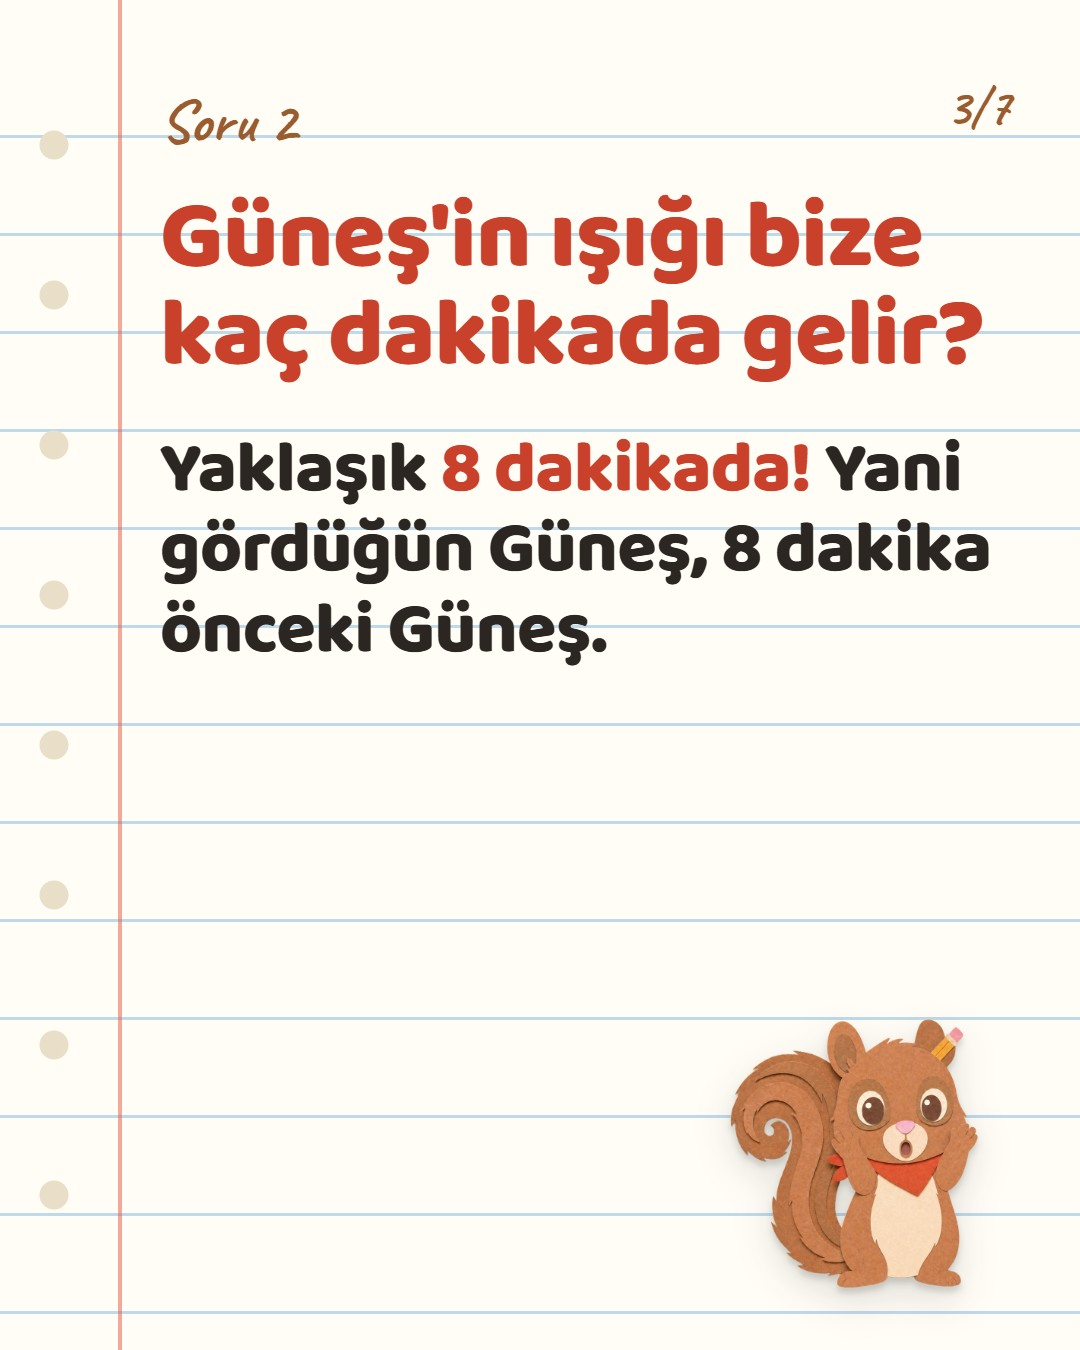
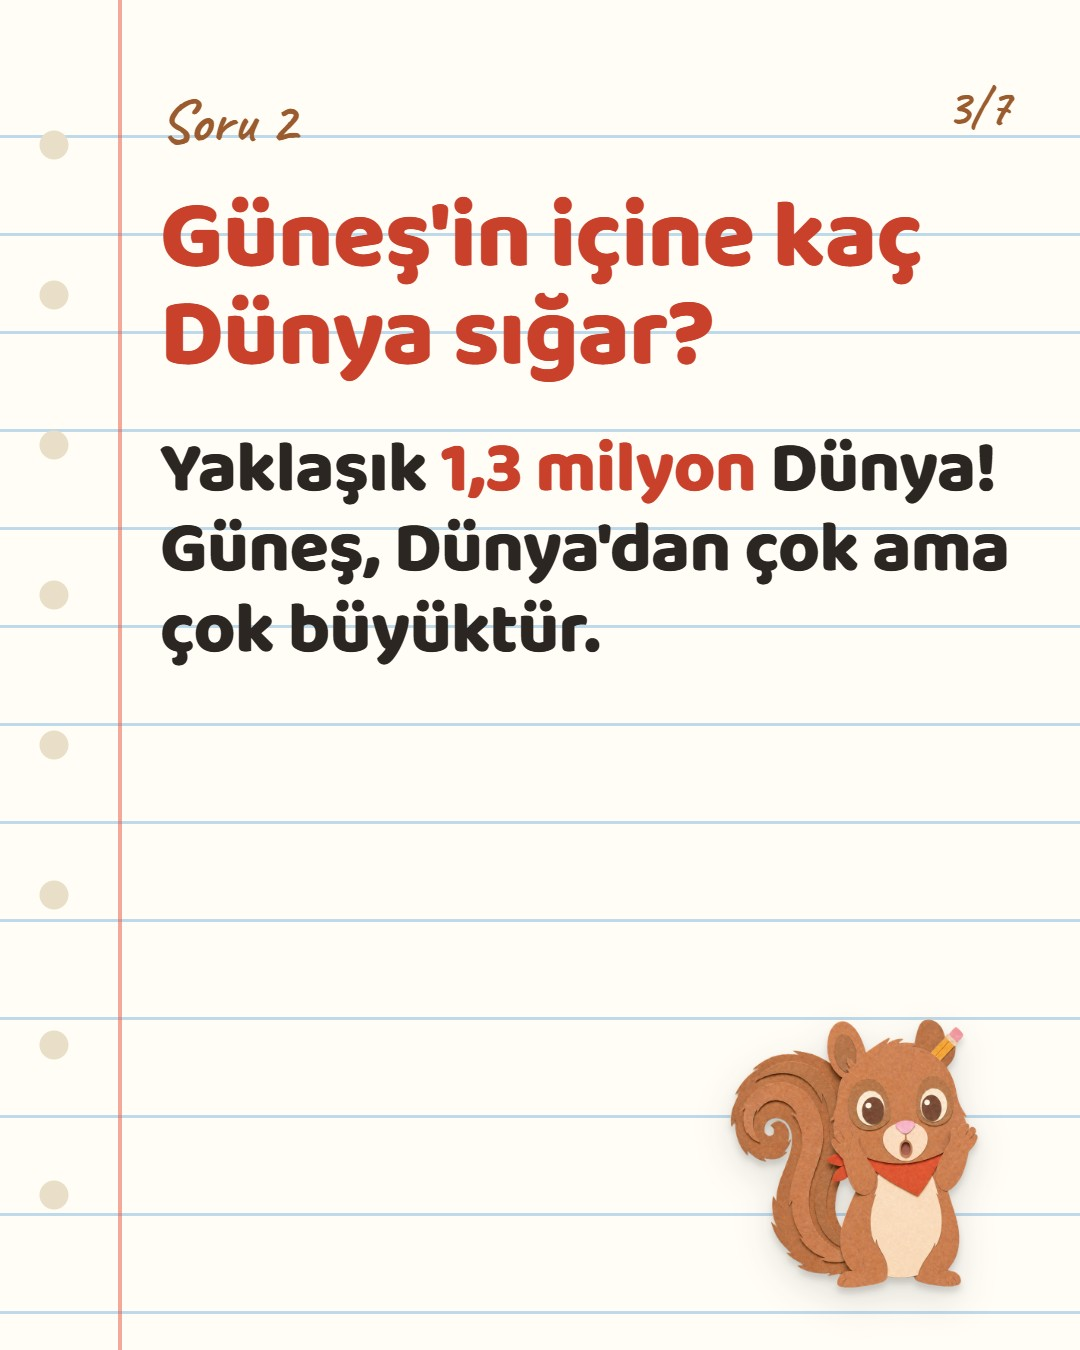
kurgu: 12:30 = önceki videonun tek pekiştirmesi (Merak Defteri 3-8), haberci tek görseller çıktı, uzay kartı değişti

Changed region(s): [[0.1528, 0.3111, 0.9472, 0.4978], [0.3972, 0.1244, 0.9167, 0.28], [0.1528, 0.2178, 0.3667, 0.28]]

diff --git a/otomasyon/pilot_plan.py b/otomasyon/pilot_plan.py
@@ -95,17 +95,34 @@ Videoyu izlediniz mi? Akşam çocuğunuzla konuşmak için kaydedin 📌 Kaydır
 "carousel-ebeveyn-rehberi-gokyuzu": (5, "Ebeveyn rehberi", """Çocuğunuz "Gökyüzü neden mavi?" diye sorarsa yaşına göre 1 cümlelik cevaplar 👇
 5–7 yaş, 8–10 yaş ve 11+ için ayrı ayrı. Kaydedin, eşinize gönderin ✈
 #merakliFindik #çocuklaraBilim #anneBaba #çocukEğitimi #neden"""),
+"carousel-merak-defteri-003": (6, "Merak Defteri · Sayfa 3", """Bulutlar neden beyaz? Merak Defteri'nin 3. sayfası 📓
+Videoyu izlediniz mi? Kaydırın; akşam çocuğunuzla konuşmak için kaydedin 📌
+Kaynak: NOAA SciJinks
+#merakliFindik #çocuklaraBilim #neden #bulutlar #anneBaba"""),
+"carousel-merak-defteri-004": (6, "Merak Defteri · Sayfa 4", """Bulutlar neden düşmüyor? Merak Defteri'nin 4. sayfası 📓
+Videoyu izlediniz mi? Kaydırın; akşam çocuğunuzla konuşmak için kaydedin 📌
+Kaynak: NOAA SciJinks · UCAR
+#merakliFindik #çocuklaraBilim #neden #bulutlar #anneBaba"""),
+"carousel-merak-defteri-006": (6, "Merak Defteri · Sayfa 6", """Şimşek neden çakar? Merak Defteri'nin 6. sayfası 📓
+Videoyu izlediniz mi? Kaydırın; akşam çocuğunuzla konuşmak için kaydedin 📌
+Kaynak: NOAA National Severe Storms Laboratory
+#merakliFindik #çocuklaraBilim #neden #şimşek #anneBaba"""),
+"carousel-merak-defteri-008": (7, "Merak Defteri · Sayfa 8", """Gökkuşağı nasıl oluşur? Merak Defteri'nin son sayfası 📓 Defter doldu: 8 soru, 8 cevap!
+Hangi sayfa en sevdiğiniz oldu? Yorumlara yazın 👇 Kaydedin 📌
+Kaynak: NOAA SciJinks · Met Office
+#merakliFindik #çocuklaraBilim #neden #gökkuşağı #anneBaba"""),
 "tek-sence-neden": (0, "Sence neden?", """Bulutlarda tonlarca su var… peki neden üstümüze düşmüyor? ☁
 A mı, B mi? Çocuğunuzun cevabını yorumlara yazın; doğru cevap akşamki videoda 🐿
 #merakliFindik #neden #bulutlar #çocuklaraBilim #anneBaba"""),
-"carousel-evde-dene-kavanozda-yagmur": (7, "Evde Dene", """Evde Dene: kavanozda yağmur 🫙 5 dakikalık mutfak deneyi!
+"carousel-evde-dene-kavanozda-yagmur": (7, "Merak Defteri · Sayfa 5", """Merak Defteri · sayfa 5: yağmurun nasıl oluştuğunu kavanozda görün 🫙 5 dakikalık mutfak deneyi!
 ⚠ Sıcak suyu bir yetişkin döksün, kaynar su kullanmayın. Denediyseniz ne gördüğünüzü yorumlara yazın 👇
 #merakliFindik #evdeDeney #çocuklaraBilim #yağmur #anneBaba"""),
 "tek-simsek-mi-gurultu-mu": (0, "Fırtınada hangisi önce?", """Fırtınada hangisi önce gelir: şimşek mi, gök gürültüsü mü? ⚡
 Çocuğunuzla tahmin edin, cevabınızı yorumlara yazın 👇 Cevap bu hafta Merak Defteri'nde!
 #merakliFindik #neden #şimşek #çocuklaraBilim #anneBaba"""),
-"carousel-uc-saniye-kurali": (5, "3 saniye kuralı", """Fırtına ne kadar uzakta? 3 saniye kuralıyla saniye sayarak bulun ⚡
+"carousel-uc-saniye-kurali": (5, "Merak Defteri · Sayfa 7", """Merak Defteri · sayfa 7: fırtına ne kadar uzakta? 3 saniye kuralıyla saniye sayarak bulun ⚡
 Unutmayın: fırtınada içeride kalın! Kaydedin 📌
+Kaynak: NOAA National Weather Service
 #merakliFindik #çocuklaraBilim #fırtına #neden #anneBaba"""),
 "tek-gokkusagi-gunes": (0, "Güneş nerede?", """Gökkuşağını görmek için güneş nerede olmalı: önümüzde mi, arkamızda mı? 🌈
 Tahmininizi yorumlara yazın; cevap akşamki sezon finalinde!
@@ -122,12 +139,12 @@ DAYS = [
  ("2026-10-08", None, [("12:30", "000"), ("19:30", "001")], [("13:00", "story-merhaba"), ("16:00", "story-001-a-soru"), ("19:40", "story-001-b-video"), ("21:30", "story-001-c-cevap")]),
  ("2026-10-09", "carousel-001", [("19:30", "002")], [("10:00", "story-002-a-soru"), ("19:40", "story-002-b-video"), ("21:30", "story-002-c-cevap")]),
  ("2026-10-10", "carousel-ebeveyn-rehberi-gokyuzu", [("19:30", "003")], [("10:00", "story-003-a-soru"), ("19:40", "story-003-b-video"), ("21:30", "story-003-c-cevap")]),
- ("2026-10-11", "tek-sence-neden", [("19:30", "004")], [("10:00", "story-004-a-soru"), ("19:40", "story-004-b-video"), ("21:30", "story-004-c-cevap")]),
- ("2026-10-12", "carousel-evde-dene-kavanozda-yagmur", [("19:30", "005")], [("10:00", "story-005-a-soru"), ("19:40", "story-005-b-video"), ("21:30", "story-005-c-cevap")]),
- ("2026-10-13", "tek-simsek-mi-gurultu-mu", [("19:30", "006")], [("10:00", "story-006-a-soru"), ("19:40", "story-006-b-video"), ("21:30", "story-006-c-cevap")]),
- ("2026-10-14", "carousel-uc-saniye-kurali", [("19:30", "007")], [("10:00", "story-007-a-soru"), ("19:40", "story-007-b-video"), ("21:30", "story-007-c-cevap")]),
- ("2026-10-15", "tek-gokkusagi-gunes", [("19:30", "008")], [("10:00", "story-008-a-soru"), ("19:40", "story-008-b-video"), ("21:30", "story-008-c-cevap")]),
- ("2026-10-16", "carousel-sezon1-ozet", [], [("13:00", "story-sezon2")]),
+ ("2026-10-11", "carousel-merak-defteri-003", [("19:30", "004")], [("10:00", "story-004-a-soru"), ("19:40", "story-004-b-video"), ("21:30", "story-004-c-cevap")]),
+ ("2026-10-12", "carousel-merak-defteri-004", [("19:30", "005")], [("10:00", "story-005-a-soru"), ("19:40", "story-005-b-video"), ("21:30", "story-005-c-cevap")]),
+ ("2026-10-13", "carousel-evde-dene-kavanozda-yagmur", [("19:30", "006")], [("10:00", "story-006-a-soru"), ("19:40", "story-006-b-video"), ("21:30", "story-006-c-cevap")]),
+ ("2026-10-14", "carousel-merak-defteri-006", [("19:30", "007")], [("10:00", "story-007-a-soru"), ("19:40", "story-007-b-video"), ("21:30", "story-007-c-cevap")]),
+ ("2026-10-15", "carousel-uc-saniye-kurali", [("19:30", "008")], [("10:00", "story-008-a-soru"), ("19:40", "story-008-b-video"), ("21:30", "story-008-c-cevap")]),
+ ("2026-10-16", "carousel-merak-defteri-008", [], [("13:00", "story-sezon2")]),
 ]
 
 # ---------- Kaydırmalı formatlar (2026-10-09 kullanıcı kararı; kaynak studio/karusel/, görseller yayin/kr/<id>-NN.jpg, 4:5) ----------
@@ -149,7 +166,7 @@ Kaynak: National Geographic · Smithsonian · WWF
 Kaç tanesini bildin? Puanını yaz, bilmeyen birine gönder ✈ Kaydet 📌
 Kaynak: National Geographic · Smithsonian
 #merakliFindik #doğrumuyanlışmı #hayvanlar #çocuklaraBilim #anneBaba"""),
- ("2026-10-14", "17:00", "hm-uzay", 7, "Hiç merak ettin mi? Uzay", """Gördüğün Güneş aslında 8 dakika önceki Güneş! ☀ Uzayla ilgili 5 soru ve cevabı, kaydır 👉
+ ("2026-10-14", "17:00", "hm-uzay", 7, "Hiç merak ettin mi? Uzay", """Güneş'in içine yaklaşık 1,3 milyon Dünya sığar! ☀ Uzayla ilgili 5 soru ve cevabı, kaydır 👉
 Hangisi aklını uçurdu? Yorumlara yaz; sıradaki "Neden?"i sen seç 👇 Kaydet 📌
 Kaynak: NASA
 #merakliFindik #hiçmerakettinmi #uzay #çocuklaraBilim #anneBaba"""),
